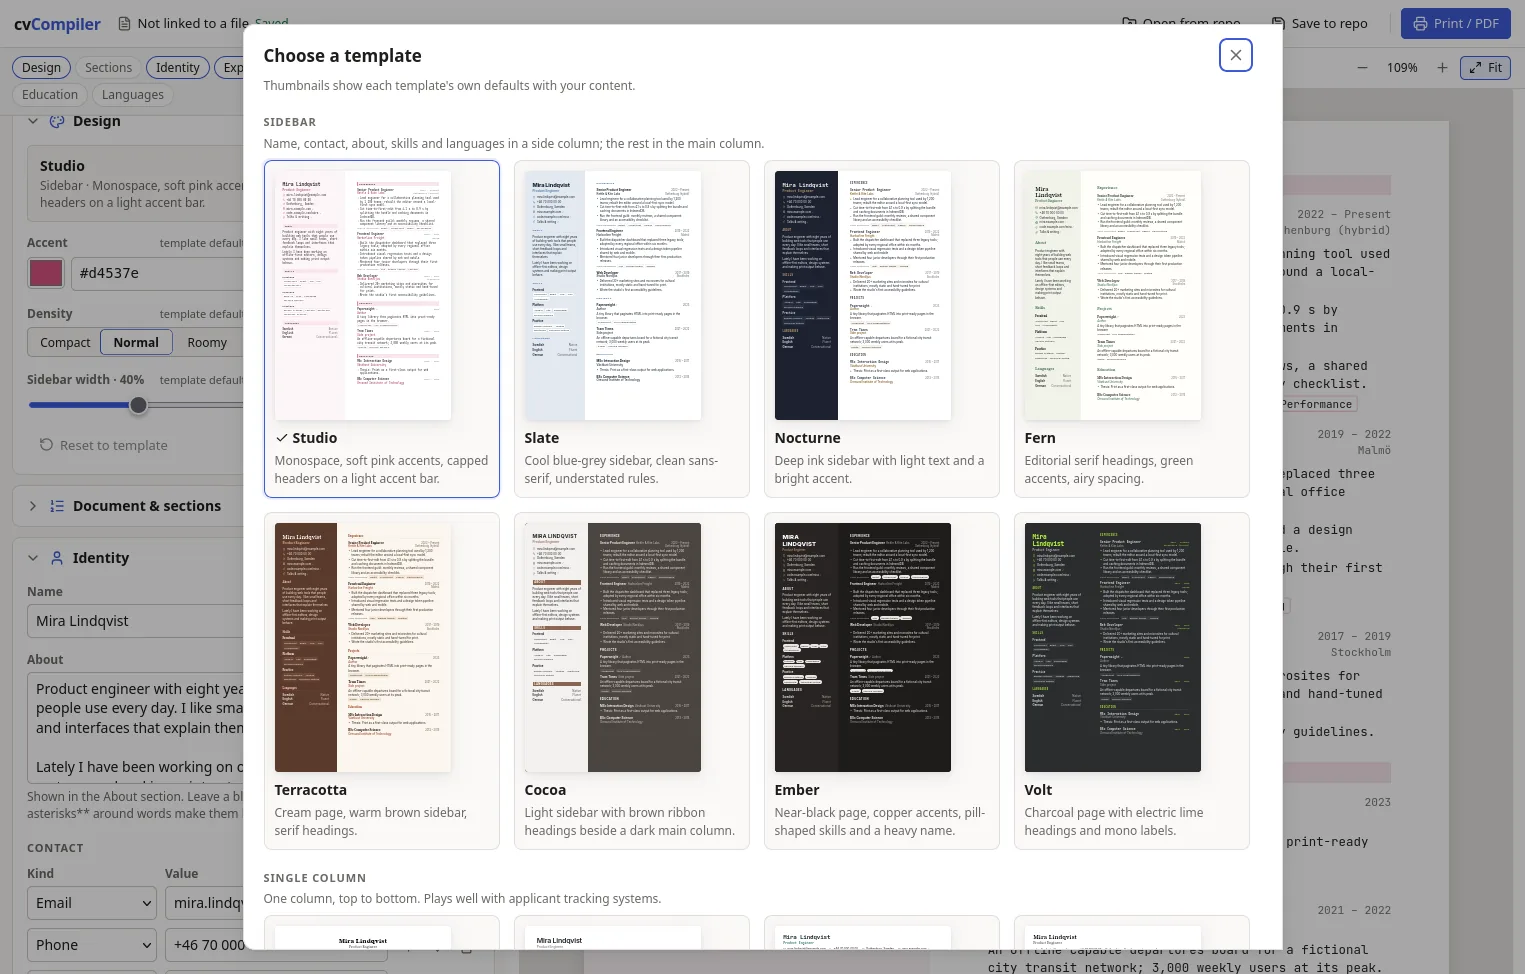
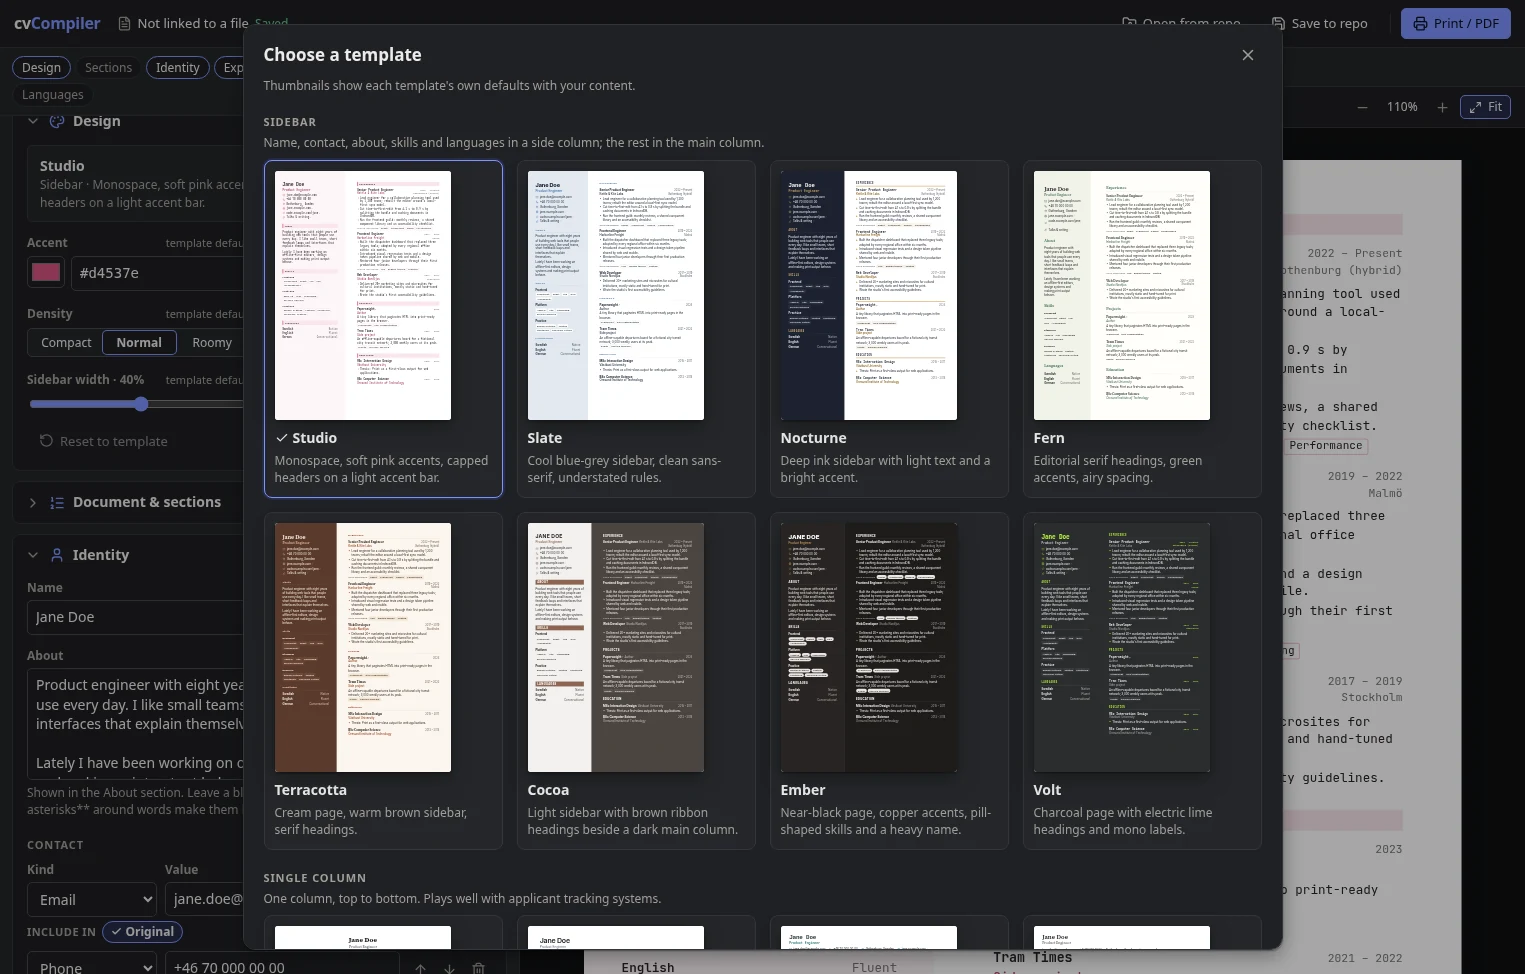
Retake README screenshots in dark mode as Jane Doe
The PDF export image uses the Ember template. Also drop the link to the removed Shelved features section.

diff --git a/README.md b/README.md
@@ -122,8 +122,7 @@ Entries never split across pages, and section headings stay with their first
 entry. The default PDF file name is the document title. The PDF holds only what
 you see; no copy of your CV data is hidden inside it.
 
-PDFs can't be imported, so keep the JSON file if you want to edit later (see
-[Shelved features](#shelved-features)).
+PDFs can't be imported, so keep the JSON file if you want to edit later.
 
 ## Development
 
